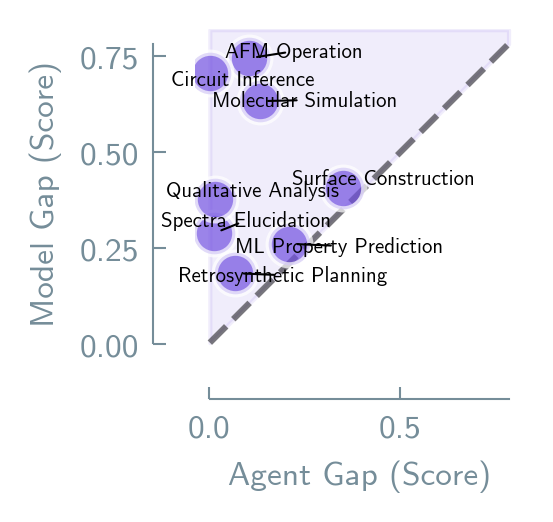
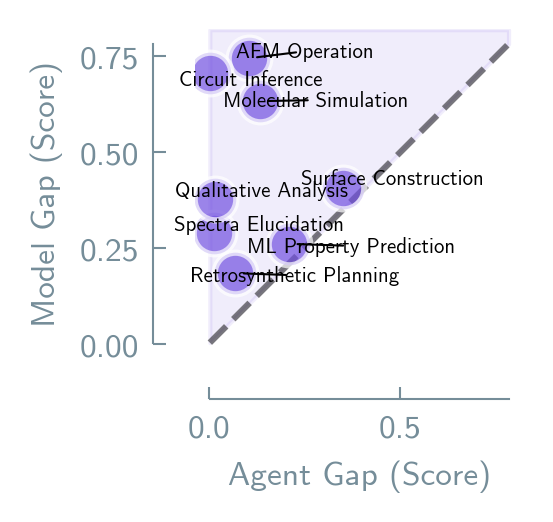
fix: update figure sizes for 2b (1/3 width) and 2c (2/3 width)

diff --git a/plots/panel_2/2b_gap_scatter.py b/plots/panel_2/2b_gap_scatter.py
@@ -17,7 +17,7 @@ import matplotlib.pyplot as plt
 import numpy as np
 import pandas as pd
 from adjustText import adjust_text
-from lama_aesthetics import ONE_COL_HEIGHT, ONE_COL_WIDTH
+from lama_aesthetics import ONE_COL_HEIGHT, TWO_COL_WIDTH
 from lama_aesthetics.plotutils import range_frame
 from loguru import logger
 
@@ -121,7 +121,7 @@ def plot_gap_scatter(
     env_labels = [ENVIRONMENT_NAMES.get(env, env.upper()) for env in environments]
 
     # Create figure
-    fig, ax = plt.subplots(1, 1, figsize=(ONE_COL_WIDTH, ONE_COL_HEIGHT))
+    fig, ax = plt.subplots(1, 1, figsize=(TWO_COL_WIDTH / 3, ONE_COL_HEIGHT))
 
     # Plot diagonal line (y=x) first
     max_gap = max(*agent_gaps, *model_gaps)

diff --git a/plots/panel_2/2c_task_category.py b/plots/panel_2/2c_task_category.py
@@ -236,7 +236,7 @@ def main():
 
     logger.info(f"Processed {total_subtasks_processed} subtask results")
     logger.info(
-        f"Classified {classified_count} subtasks ({100*classified_count/total_subtasks_processed:.1f}%)"
+        f"Classified {classified_count} subtasks ({100 * classified_count / total_subtasks_processed:.1f}%)"
     )
 
     # Compute average scores
@@ -248,7 +248,7 @@ def main():
         }
 
     # Create plot
-    fig, ax = plt.subplots(1, 1, figsize=(TWO_COL_WIDTH, ONE_COL_HEIGHT))
+    fig, ax = plt.subplots(1, 1, figsize=(TWO_COL_WIDTH * 2 / 3, ONE_COL_HEIGHT))
 
     # Define visual mappings
     agent_display = dict(AGENT_NAMES)
